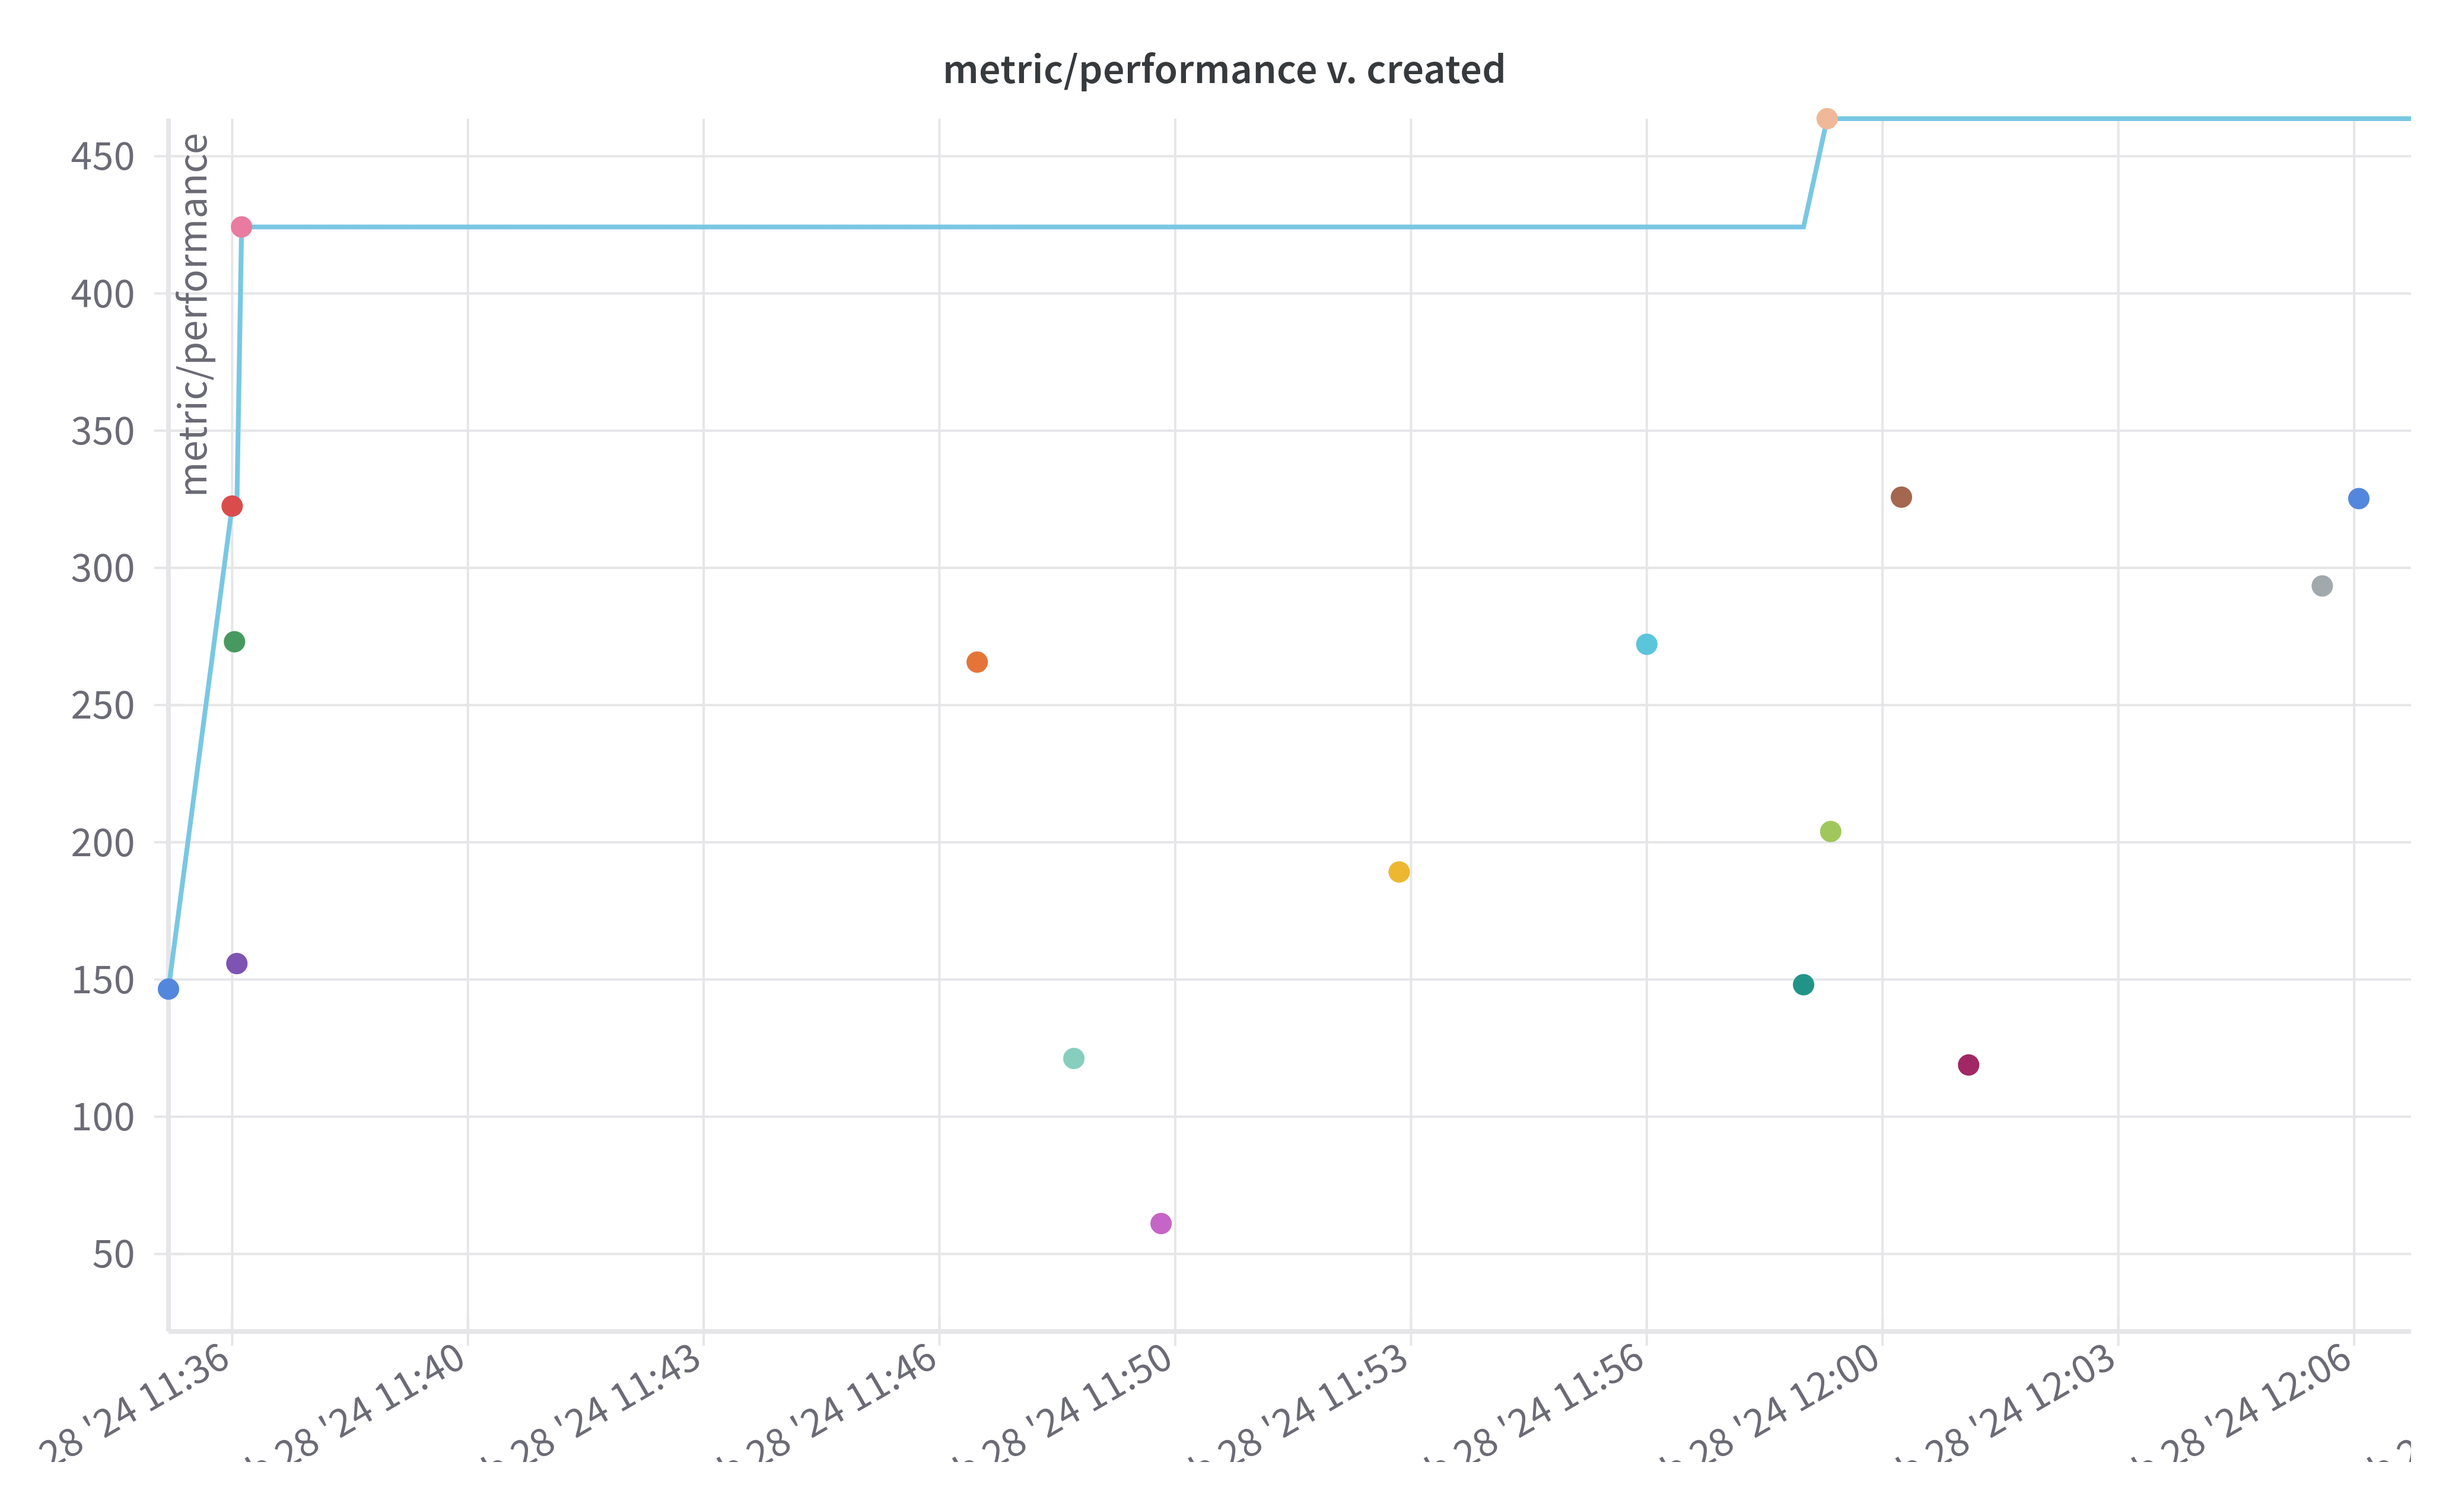
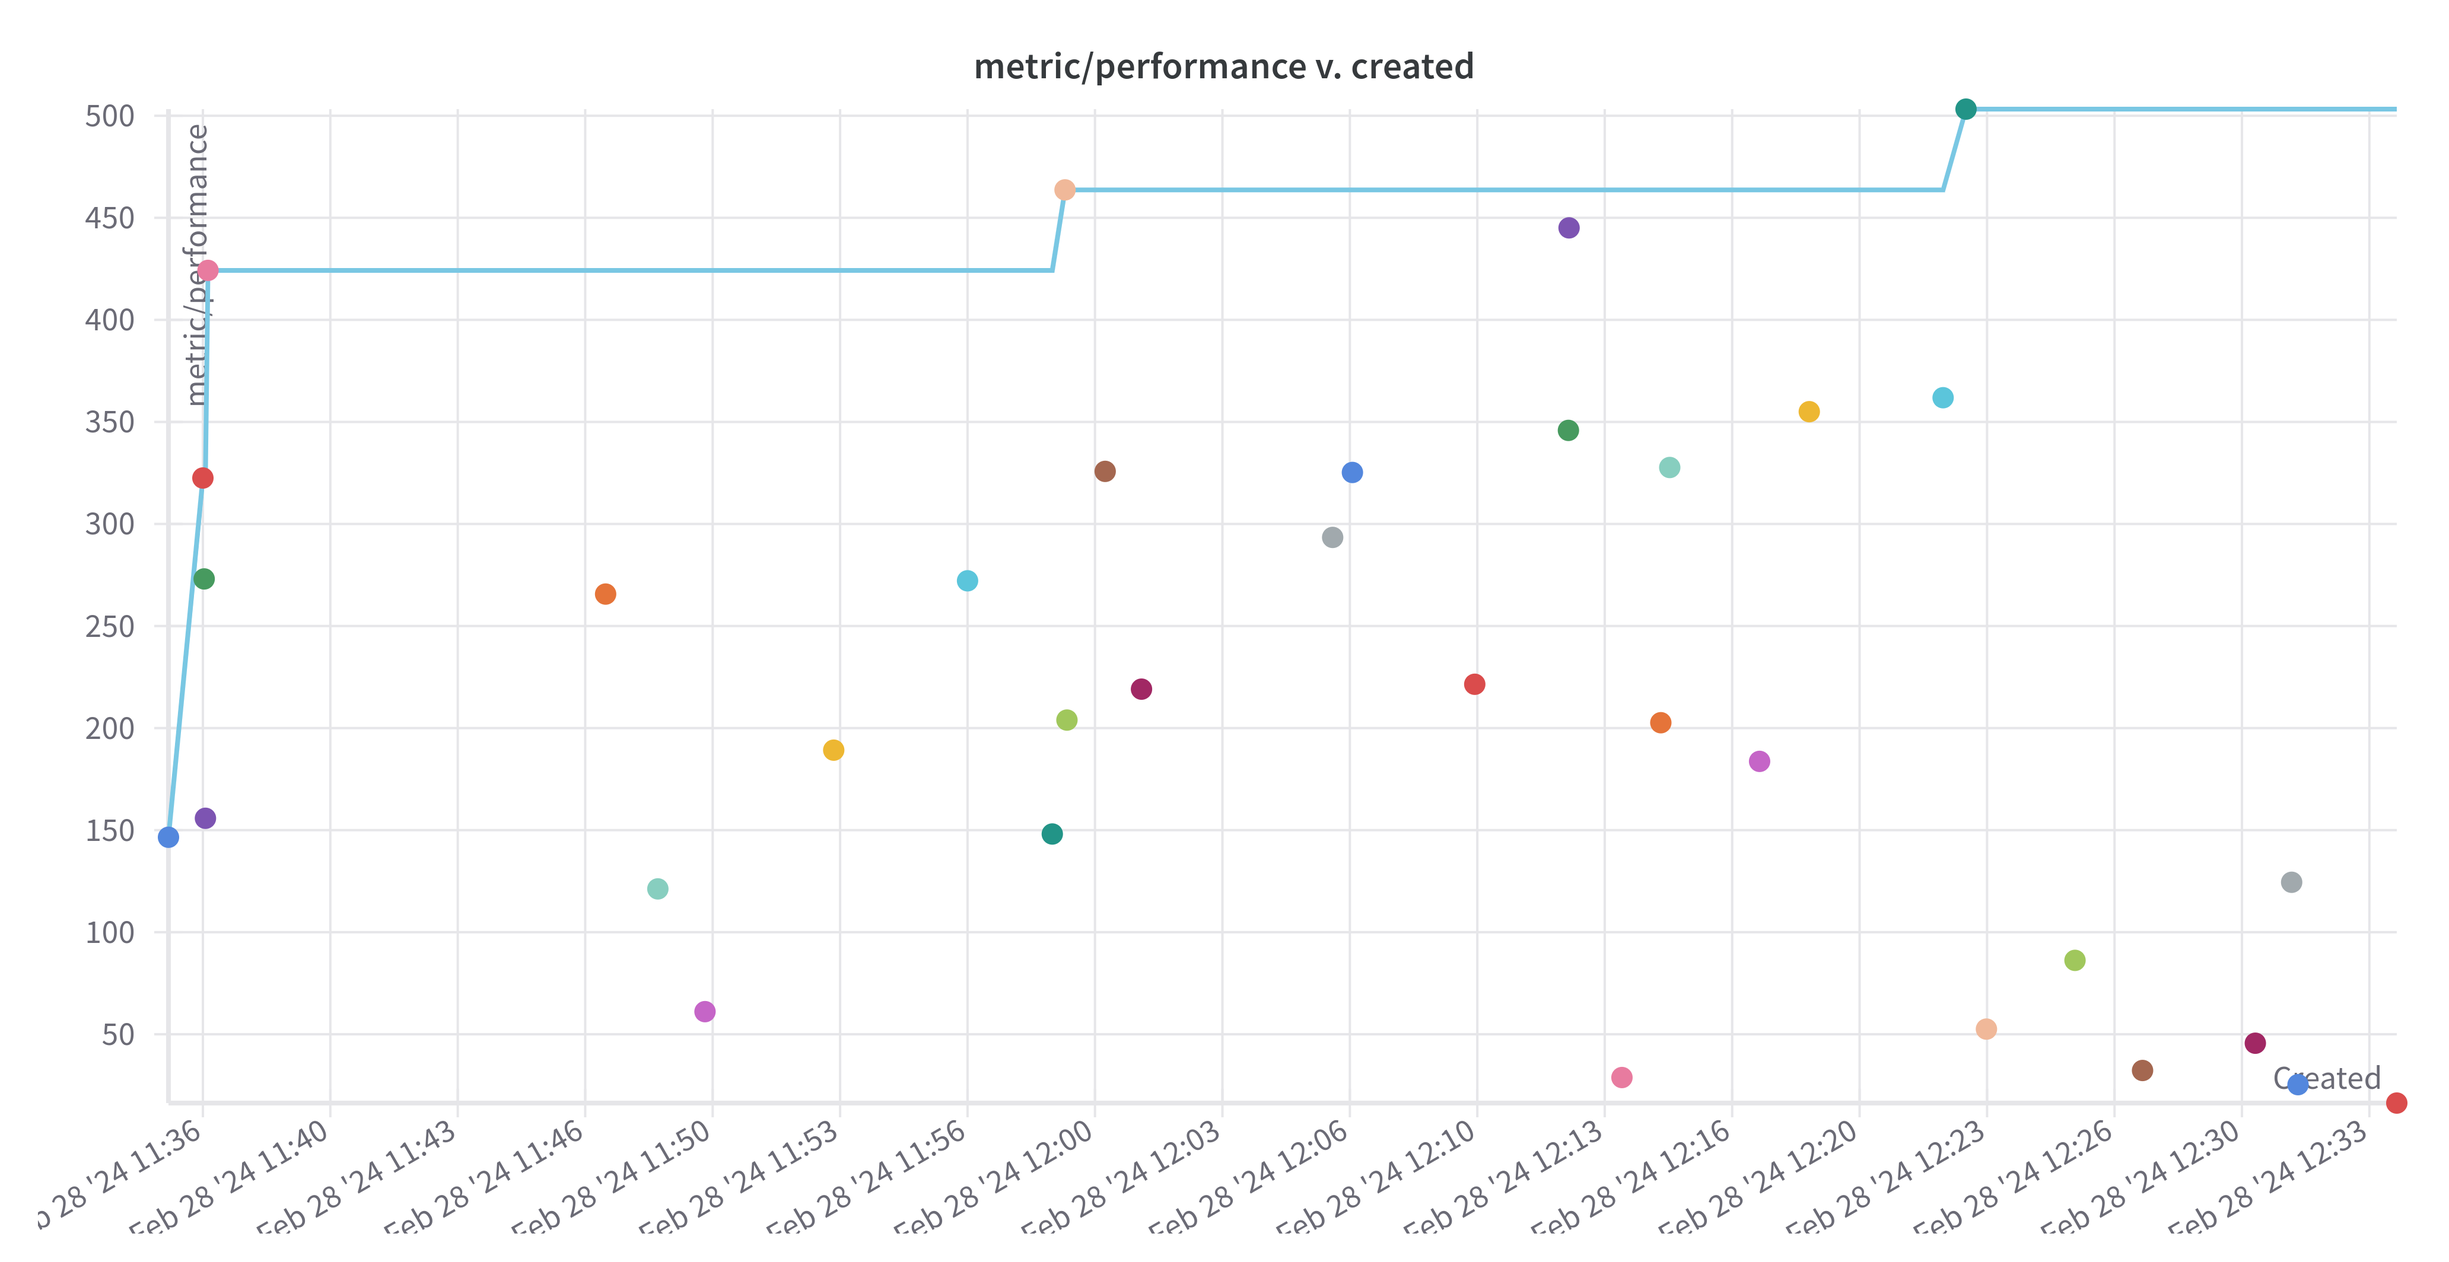
Updated README

diff --git a/README.md b/README.md
@@ -111,7 +111,7 @@ $$\mathbb{E}[\mathcal{L}(r_t + \gamma \max_{a'} Q(s_{t+1}, a'; \theta'), Q(s_t, 
 
 ### Result
 
-The hyper-parameter optimization ran for around $1$ hour and the best model achieved an average score of $463$ on $100$ consecutive episodes. While the score is below the threshold of $475$, it's still enough for me to consider the problem `CartPole-v1` to be solved. The win-cost ratio is too low for me to continue with the experiments.
+The hyper-parameter optimization ran for around $1$ hour and the best model achieved an average score of $497$ in $100$ consecutive episodes. The score is above $475$ and I can consider the problem `CartPole-v1` to be solved.
 
 <p align="center">
 <img src="images/W&B Chart 2_28_2024, 12_29_28 PM.png" width=600/>
@@ -119,5 +119,5 @@ The hyper-parameter optimization ran for around $1$ hour and the best model achi
 
 ### Conclusion
 
-While `v1` is not solved, yet, I still consider this project a win for me since debugging a network gave me a run for my money and I learned valuable tools to help me approaching more interesting and challenging problems.
+While the `v1` problem is one of the easier challenges, I still consider this project a win for me since debugging a network gave me a run for my money and I learned valuable hyper-optimization tools to help me to approach more interesting and challenging problems.
 
